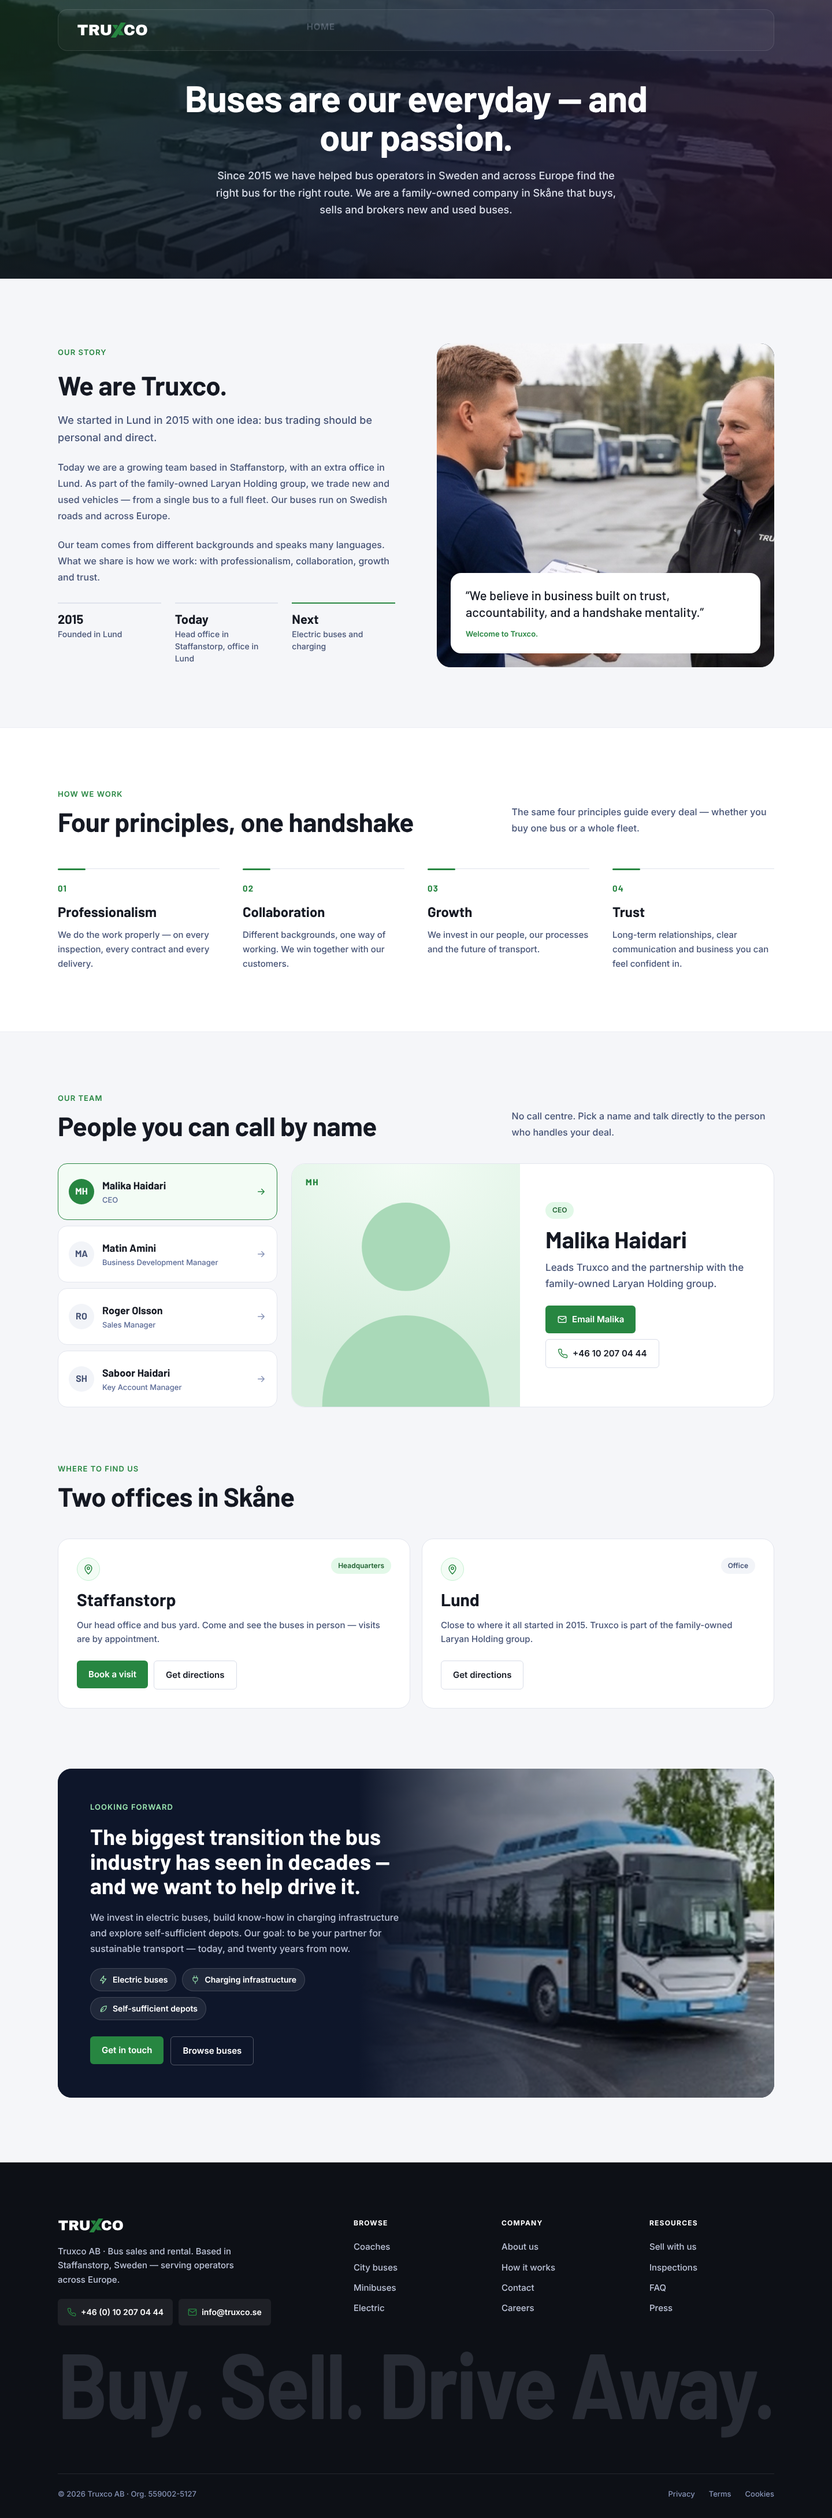
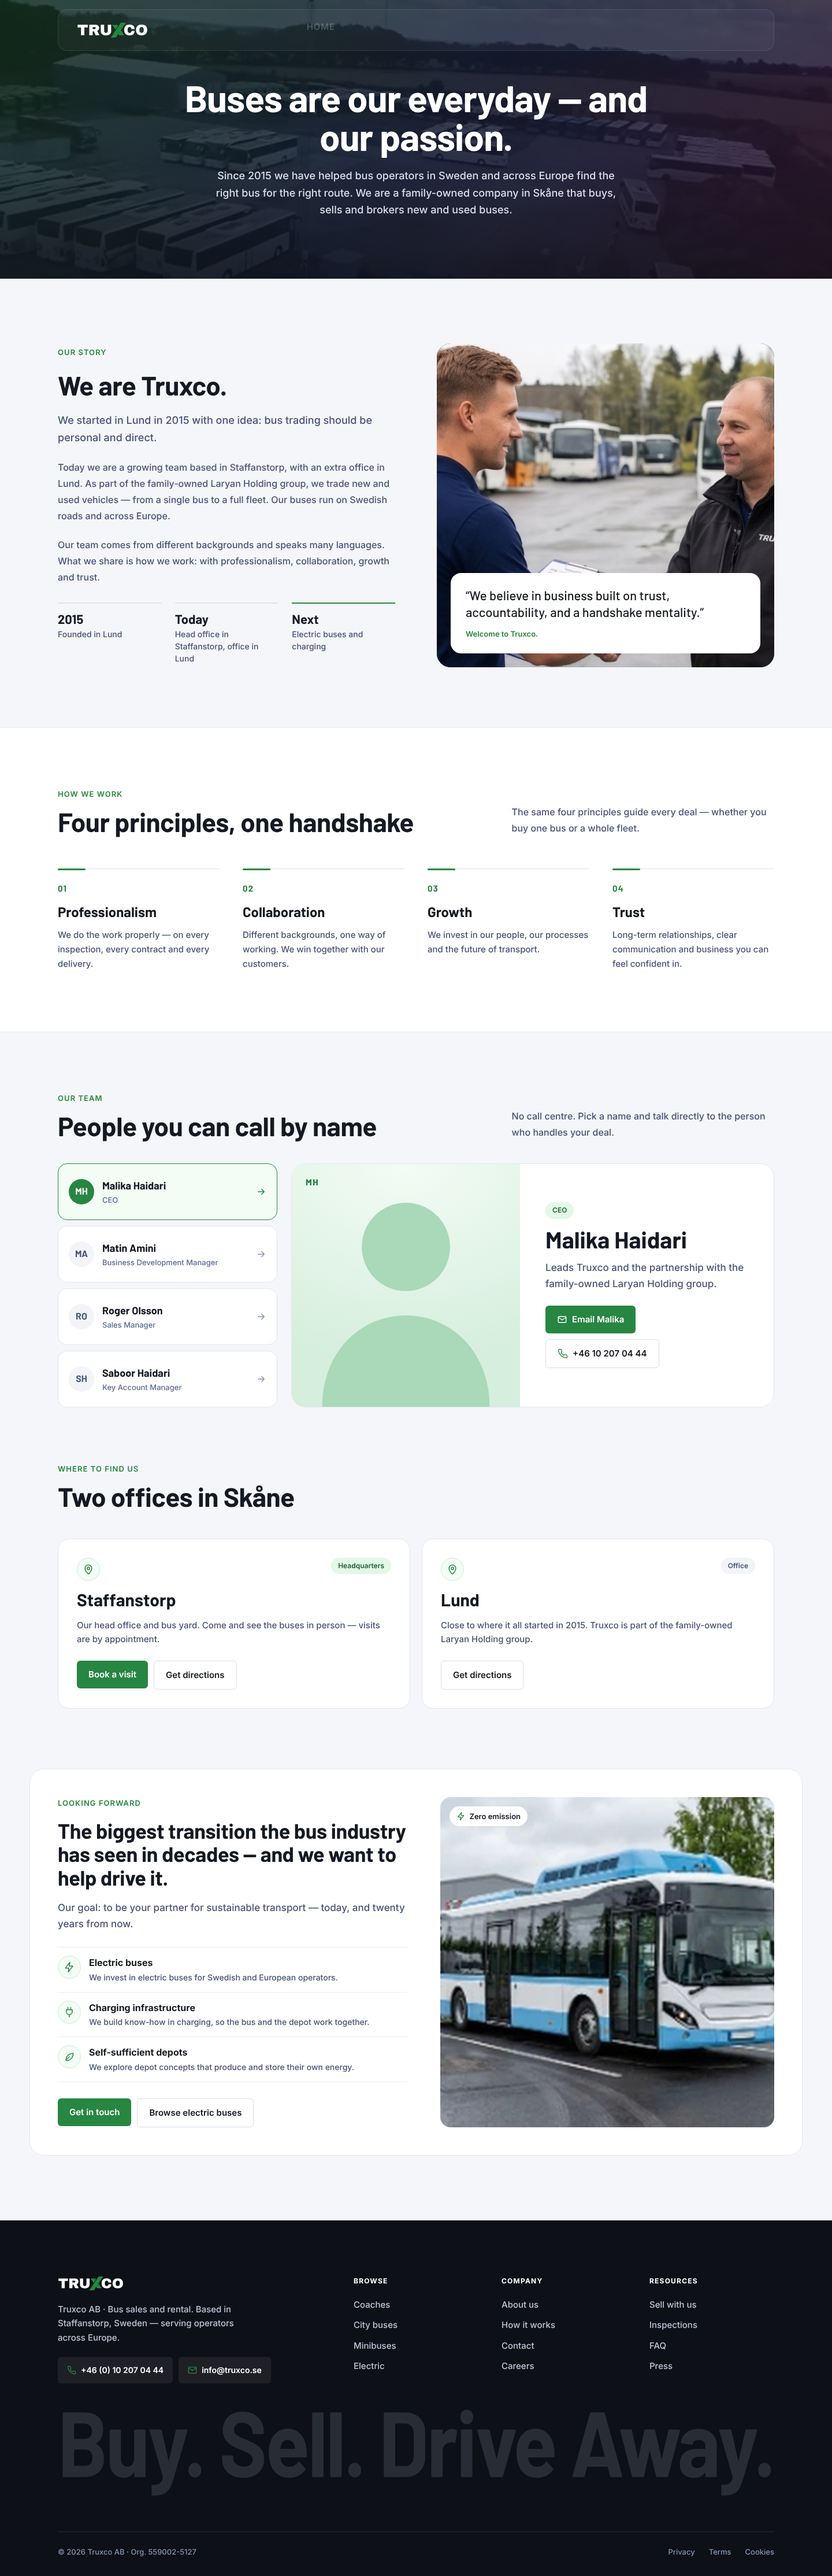
About us: Looking forward uses clean split layout (option A)
Claude-Session: https://claude.ai/code/session_01CJrfSMbtJkdqaRmDBKHX4E

diff --git a/truxco-design/website-v2/AboutUs.dc.html b/truxco-design/website-v2/AboutUs.dc.html
@@ -321,18 +321,21 @@ a{color:#3050A6}a:hover{color:#151923}
 .ab-row{display:flex;gap:10px;flex-wrap:wrap;margin-top:auto;padding-top:8px}
 .ab-btn{display:inline-flex;align-items:center;justify-content:center;gap:8px;height:48px;padding:0 20px;border-radius:6px;background:#278641;color:#FFFFFF;text-decoration:none;font-weight:600;font-size:15px;transition:background .15s}.ab-btn:hover{background:#1F6E35;color:#FFFFFF}
 .ab-btn2{display:inline-flex;align-items:center;justify-content:center;gap:8px;height:48px;padding:0 20px;border-radius:6px;background:#FFFFFF;color:#151923;border:1px solid #D9DDE8;text-decoration:none;font-weight:600;font-size:15px;transition:border-color .15s}.ab-btn2:hover{border-color:#278641;color:#151923}
-.ab-fwd{position:relative;overflow:hidden;border-radius:24px;background:#0E162A;min-height:480px;display:grid;grid-template-columns:minmax(0,1.1fr) minmax(0,1fr)}
-.ab-fwd-img{position:absolute;top:0;right:0;bottom:0;width:58%;height:100%;object-fit:cover}
-.ab-fwd-shade{position:absolute;inset:0;background:linear-gradient(90deg,#0E162A 0%,#0E162A 42%,rgba(14,22,42,0.55) 62%,rgba(14,22,42,0.05) 100%)}
-.ab-fwd-txt{position:relative;padding:56px;display:flex;flex-direction:column;justify-content:center;gap:20px}
-.ab-fwd h2{margin:0;font-family:'Barlow',sans-serif;font-weight:700;font-size:clamp(28px,3vw,38px);line-height:1.12;color:#FFFFFF}
-.ab-fwd p{margin:0;font-size:16px;line-height:1.7;color:#BCC3D7}
-.ab-ticks{list-style:none;margin:0;padding:0;display:flex;flex-wrap:wrap;gap:10px}
-.ab-ticks li{display:inline-flex;align-items:center;gap:8px;font-size:14px;font-weight:600;color:#FFFFFF;background:rgba(255,255,255,0.08);border:1px solid rgba(255,255,255,0.14);padding:8px 14px;border-radius:999px}
+.ab-fwd{display:grid;grid-template-columns:minmax(0,1.05fr) minmax(0,1fr);gap:56px;background:#FFFFFF;border:1px solid #E3E6EE;border-radius:24px;padding:48px}
+.ab-fwd-txt{display:flex;flex-direction:column;gap:18px}
+.ab-fwd h2{margin:0;font-family:'Barlow',sans-serif;font-weight:700;font-size:clamp(28px,3vw,36px);line-height:1.12;letter-spacing:-0.01em;color:#151923}
+.ab-fwd-lead{margin:0;font-size:17px;line-height:1.65;color:#475476}
+.ab-fwd-list{list-style:none;margin:8px 0 10px;padding:0;display:flex;flex-direction:column}
+.ab-fwd-list li{display:flex;gap:14px;align-items:flex-start;padding:14px 0;border-top:1px solid #ECEEF4}
+.ab-fwd-list li:last-child{border-bottom:1px solid #ECEEF4}
+.ab-fwd-list strong{display:block;font-size:16px;color:#151923}.ab-fwd-list li span span{display:block;font-size:14px;line-height:1.55;color:#475476;margin-top:2px}
+.ab-fwd-img{position:relative;border-radius:18px;overflow:hidden;min-height:480px}
+.ab-fwd-img img{position:absolute;inset:0;width:100%;height:100%;object-fit:cover}
+.ab-fwd-chip{position:absolute;left:16px;top:16px;display:inline-flex;align-items:center;gap:6px;background:#FFFFFF;font-size:13px;font-weight:600;color:#151923;padding:7px 12px;border-radius:999px}
 .ab-ghost{display:inline-flex;align-items:center;justify-content:center;height:48px;padding:0 20px;border-radius:6px;border:1px solid rgba(255,255,255,0.28);color:#FFFFFF;text-decoration:none;font-weight:600;font-size:15px;transition:background .15s}.ab-ghost:hover{background:rgba(255,255,255,0.08);color:#FFFFFF}
 .ab-btn:focus-visible,.ab-btn2:focus-visible,.ab-ghost:focus-visible,.ab-link:focus-visible{outline:2px solid #278641;outline-offset:3px}
 @media (max-width: 1080px){.ab-facts{grid-template-columns:repeat(2,minmax(0,1fr));row-gap:22px}.ab-fact:nth-child(3){border-left:0}.ab-team{grid-template-columns:repeat(2,minmax(0,1fr))}.ab-princ{grid-template-columns:repeat(2,minmax(0,1fr))}.ab-story{gap:48px}}
-@media (max-width: 860px){.ab-story,.ab-offices{grid-template-columns:minmax(0,1fr)}.ab-story-img{min-height:460px}.ab-fwd{grid-template-columns:minmax(0,1fr)}.ab-fwd-img{width:100%;height:220px;top:auto;bottom:0}.ab-fwd-shade{background:linear-gradient(180deg,#0E162A 0%,#0E162A 60%,rgba(14,22,42,0.3) 100%)}.ab-fwd-txt{padding:36px 28px 240px}}
+@media (max-width: 860px){.ab-story,.ab-offices{grid-template-columns:minmax(0,1fr)}.ab-story-img{min-height:460px}.ab-fwd{grid-template-columns:minmax(0,1fr);gap:32px;padding:32px}.ab-fwd-img{min-height:300px}}
 @media (max-width: 600px){.ab-panel{height:360px}.ab-cut{height:450px}.ab-photo{height:280px}.ab-facts{margin:-40px 12px 0;grid-template-columns:minmax(0,1fr);padding:20px}.ab-fact{border-left:0;padding:0}.ab-team,.ab-princ,.ab-mile{grid-template-columns:minmax(0,1fr)}.ab-office{padding:24px}.ab-quote p{font-size:18px}.ab-sec{padding-top:64px!important;padding-bottom:64px!important}}
 
 .d-box{display:grid;grid-template-columns:380px minmax(0,1fr);gap:24px;align-items:stretch}
@@ -508,15 +511,14 @@ a{color:#3050A6}a:hover{color:#151923}
 <!-- LOOKING FORWARD -->
 <section id="forward" class="ab-sec" aria-labelledby="ab-fwd-h" style="padding: 0 24px 112px">
 <div class="ab-wrap ab-fwd">
-<img class="ab-fwd-img" src="/_blob/f430994695698a72d72784b9fdf0f2eb" alt="An electric city bus at the Truxco yard">
-<div aria-hidden="true" class="ab-fwd-shade"></div>
 <div class="ab-fwd-txt">
-<span class="ab-eyebrow" style="color: #9CE7B1">Looking forward</span>
+<span class="ab-eyebrow">Looking forward</span>
 <h2 id="ab-fwd-h">The biggest transition the bus industry has seen in decades — and we want to help drive it.</h2>
-<p>We invest in electric buses, build know-how in charging infrastructure and explore self-sufficient depots. Our goal: to be your partner for sustainable transport — today, and twenty years from now.</p>
-<ul class="ab-ticks"><li><svg aria-hidden="true" width="16" height="16" viewBox="0 0 24 24" fill="none" stroke="#9CE7B1" stroke-width="1.8" stroke-linecap="round" stroke-linejoin="round" style="flex: none"><path d="M13 2L4 14h7l-1 8 9-12h-7l1-8z"></path></svg>Electric buses</li><li><svg aria-hidden="true" width="16" height="16" viewBox="0 0 24 24" fill="none" stroke="#9CE7B1" stroke-width="1.8" stroke-linecap="round" stroke-linejoin="round" style="flex: none"><path d="M9 2v5M15 2v5M6 7h12v4a6 6 0 0 1-12 0V7zM12 17v5"></path></svg>Charging infrastructure</li><li><svg aria-hidden="true" width="16" height="16" viewBox="0 0 24 24" fill="none" stroke="#9CE7B1" stroke-width="1.8" stroke-linecap="round" stroke-linejoin="round" style="flex: none"><path d="M5 19c0-8 6-14 15-14 0 9-6 15-14 15"></path><path d="M5 19l7-7"></path></svg>Self-sufficient depots</li></ul>
-<div style="display: flex; flex-wrap: wrap; gap: 12px; margin-top: 8px"><a class="ab-btn" href="Contact.dc.html">Get in touch</a><a class="ab-ghost" href="UsedBuses.dc.html">Browse buses</a></div>
+<p class="ab-fwd-lead">Our goal: to be your partner for sustainable transport — today, and twenty years from now.</p>
+<ul class="ab-fwd-list"><li><span class="ab-ic"><svg aria-hidden="true" width="20" height="20" viewBox="0 0 24 24" fill="none" stroke="#278641" stroke-width="1.8" stroke-linecap="round" stroke-linejoin="round" style="flex: none"><path d="M13 2L4 14h7l-1 8 9-12h-7l1-8z"></path></svg></span><span><strong>Electric buses</strong><span>We invest in electric buses for Swedish and European operators.</span></span></li><li><span class="ab-ic"><svg aria-hidden="true" width="20" height="20" viewBox="0 0 24 24" fill="none" stroke="#278641" stroke-width="1.8" stroke-linecap="round" stroke-linejoin="round" style="flex: none"><path d="M9 2v5M15 2v5M6 7h12v4a6 6 0 0 1-12 0V7zM12 17v5"></path></svg></span><span><strong>Charging infrastructure</strong><span>We build know-how in charging, so the bus and the depot work together.</span></span></li><li><span class="ab-ic"><svg aria-hidden="true" width="20" height="20" viewBox="0 0 24 24" fill="none" stroke="#278641" stroke-width="1.8" stroke-linecap="round" stroke-linejoin="round" style="flex: none"><path d="M5 19c0-8 6-14 15-14 0 9-6 15-14 15"></path><path d="M5 19l7-7"></path></svg></span><span><strong>Self-sufficient depots</strong><span>We explore depot concepts that produce and store their own energy.</span></span></li></ul>
+<div style="display: flex; flex-wrap: wrap; gap: 10px"><a class="ab-btn" href="Contact.dc.html">Get in touch</a><a class="ab-btn2" href="UsedBuses.dc.html">Browse electric buses</a></div>
 </div>
+<div class="ab-fwd-img"><img src="/_blob/f430994695698a72d72784b9fdf0f2eb" alt="An electric city bus at the Truxco yard"><span class="ab-fwd-chip"><svg aria-hidden="true" width="16" height="16" viewBox="0 0 24 24" fill="none" stroke="#278641" stroke-width="2" stroke-linecap="round" stroke-linejoin="round" style="flex: none"><path d="M13 2L4 14h7l-1 8 9-12h-7l1-8z"></path></svg>Zero emission</span></div>
 </div>
 </section>
 
